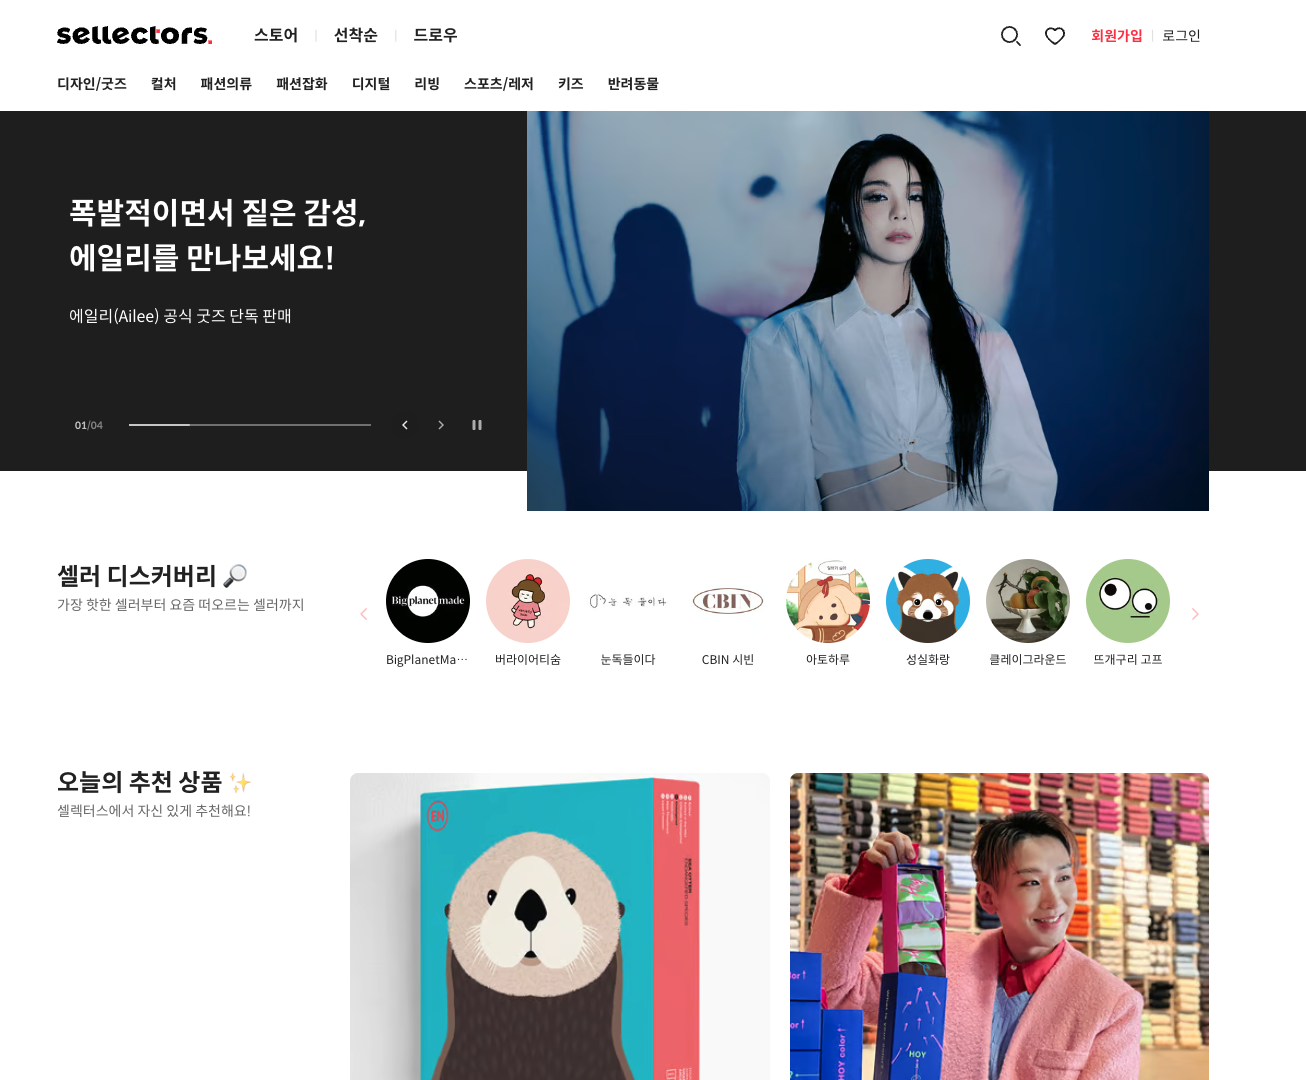
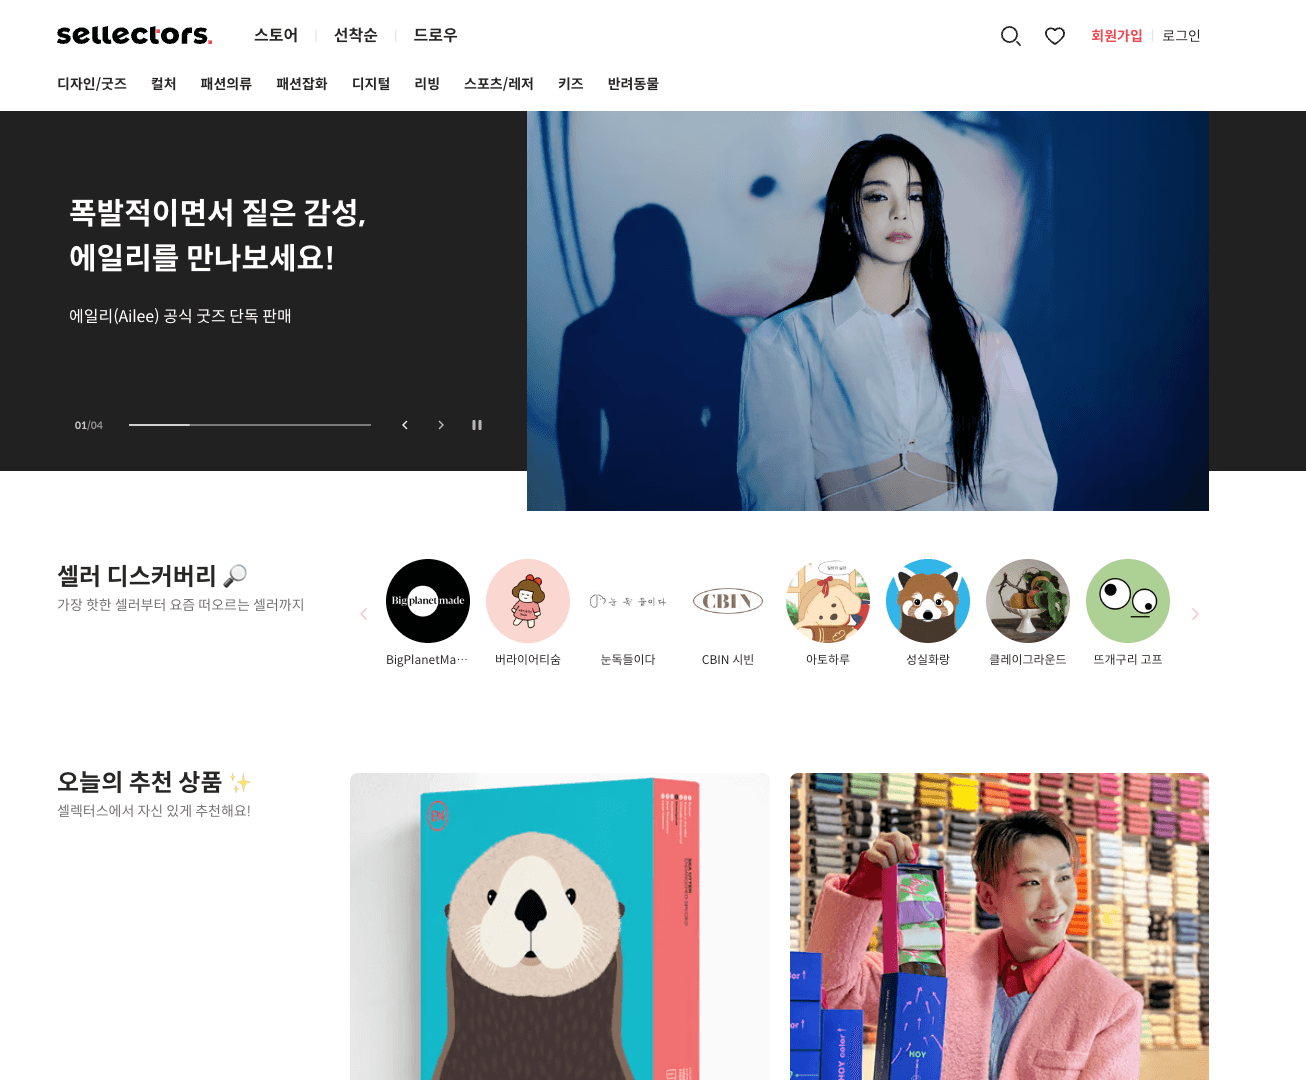
fix(web):모던 웹 가이던스로 명암비·보안 헤더·이미지 개선
modern-web-guidance(js, security, color, optimize-image-priority) 기준을 적용했다.
- 정렬용 배열 복사 4곳을 toSorted()로 전환(legacy-scan 0건).
- CSP frame-ancestors·object-src·base-uri와 X-Frame-Options, nosniff, Referrer-Policy,
  Permissions-Policy를 추가했다.
- 어두운 화면 문구 명암비를 WCAG AA로 맞췄다(axe 위반 162건 → 0건). 회색 토큰 2단계 조정,
  어두운 화면의 gray-500 글자 교체, 탭·버튼·강조 색 보정, 밝은 패널용 툴바 tone 추가.
- 경력기술서 비교 PNG를 같은 파일명으로 825KB → 200KB 무손실 압축했다.
바뀐 시각 회귀 기준선 2장을 갱신했다.

diff --git a/apps/web/src/features/resume-rag/components/resume-question-chat.tsx b/apps/web/src/features/resume-rag/components/resume-question-chat.tsx
@@ -221,7 +221,7 @@ const PendingAnswer = () => {
 
   return (
     <div className="mr-auto w-full max-w-3xl overflow-hidden border border-gray-700 bg-gray-950/80 text-gray-100">
-      <div className="border-b border-gray-800 bg-gray-900 px-3 py-2 text-xs text-gray-500">
+      <div className="border-b border-gray-800 bg-gray-900 px-3 py-2 text-xs text-gray-400">
         codex.response
       </div>
       <div className="p-3">
@@ -229,7 +229,7 @@ const PendingAnswer = () => {
           <Loader2 className="mt-0.5 size-4 animate-spin text-blue-300" />
           <div>
             <div className="font-medium">{t("pending.title")}</div>
-            <div className="mt-1 text-gray-500">{t("pending.description")}</div>
+            <div className="mt-1 text-gray-400">{t("pending.description")}</div>
           </div>
         </div>
         <div className="mt-4 space-y-2">
@@ -301,10 +301,10 @@ const SourceList = ({
                 ) : (
                   <span className="text-gray-300">{label}</span>
                 )}
-                <span className="text-gray-500">{t("similarity", { score })}</span>
+                <span className="text-gray-400">{t("similarity", { score })}</span>
               </div>
               {source.caveats?.length ? (
-                <div className="mt-1 text-gray-500">{source.caveats.join(", ")}</div>
+                <div className="mt-1 text-gray-400">{source.caveats.join(", ")}</div>
               ) : null}
             </div>
           );
@@ -355,7 +355,7 @@ const EmptyChatState = ({
 
   return (
     <div className="min-h-72 overflow-hidden border border-gray-800 bg-gray-950/70 text-gray-100">
-      <div className="flex items-center gap-2 border-b border-gray-800 bg-gray-900 px-3 py-2 text-xs text-gray-500">
+      <div className="flex items-center gap-2 border-b border-gray-800 bg-gray-900 px-3 py-2 text-xs text-gray-400">
         <span className="size-2 rounded-full bg-blue-300" />
         <span>resume-rag.question</span>
       </div>
@@ -366,7 +366,7 @@ const EmptyChatState = ({
         </div>
 
         <div className="mt-5">
-          <div className="mb-2 text-xs font-medium uppercase text-gray-500">{t("topicsLabel")}</div>
+          <div className="mb-2 text-xs font-medium uppercase text-gray-400">{t("topicsLabel")}</div>
           <div className="grid gap-2 md:grid-cols-2">
             {questionTopics.map((topic, index) => (
               <Button
@@ -616,7 +616,7 @@ export const ResumeQuestionChat = ({ initialChatId, resumeKey }: ResumeQuestionC
                 </div>
               ) : (
                 <div className="w-full max-w-3xl overflow-hidden border border-gray-700 bg-gray-950/80 text-gray-100">
-                  <div className="flex flex-wrap items-center justify-between gap-2 border-b border-gray-800 bg-gray-900 px-3 py-2 text-xs text-gray-500">
+                  <div className="flex flex-wrap items-center justify-between gap-2 border-b border-gray-800 bg-gray-900 px-3 py-2 text-xs text-gray-400">
                     <span>codex.response</span>
                     <span
                       className={
@@ -664,7 +664,7 @@ export const ResumeQuestionChat = ({ initialChatId, resumeKey }: ResumeQuestionC
             placeholder={t("placeholder")}
             aria-label={t("composerLabel")}
             rows={1}
-            className="max-h-36 min-h-11 flex-1 resize-none border-0 bg-transparent px-2 py-2 text-sm text-gray-100 shadow-none placeholder:text-gray-500 focus-visible:border-transparent focus-visible:ring-0 md:min-h-11"
+            className="max-h-36 min-h-11 flex-1 resize-none border-0 bg-transparent px-2 py-2 text-sm text-gray-100 shadow-none placeholder:text-gray-400 focus-visible:border-transparent focus-visible:ring-0 md:min-h-11"
             disabled={isSubmitting || conversation.isRestoring}
           />
           <Button
@@ -672,14 +672,14 @@ export const ResumeQuestionChat = ({ initialChatId, resumeKey }: ResumeQuestionC
             size="icon"
             disabled={!canSubmit}
             aria-label={isSubmitting ? t("submitting") : t("submit")}
-            className="size-10 shrink-0 rounded-md bg-blue-300 text-gray-950 hover:bg-blue-200"
+            className="size-10 shrink-0 rounded-md bg-blue-300 text-white hover:bg-blue-200"
           >
             {isSubmitting ? <Loader2 className="animate-spin" /> : <Send />}
           </Button>
         </div>
         <ResumeRagRateLimitStatus
           rateLimit={rateLimit}
-          className="px-1 pt-2 text-xs text-gray-500"
+          className="px-1 pt-2 text-xs text-gray-400"
         />
       </form>
     </section>

diff --git a/apps/web/src/features/main-chat/components/main-chat.tsx b/apps/web/src/features/main-chat/components/main-chat.tsx
@@ -178,7 +178,7 @@ export const MainChat = () => {
             <p className="text-xs font-semibold tracking-[0.24em] text-blue-200">VSCOKE</p>
             <h1 className="mt-1 text-lg font-semibold text-gray-100">{t("workspaceTitle")}</h1>
           </div>
-          <span className="flex items-center gap-1.5 text-xs text-gray-500">
+          <span className="flex items-center gap-1.5 text-xs text-gray-400">
             <span className="size-1.5 rounded-full bg-blue-300" />
             {t("publicAccess")}
           </span>
@@ -244,7 +244,7 @@ export const MainChat = () => {
               {state.messages.map(message =>
                 message.role === "user" ? (
                   <div key={message.id} className="ml-auto max-w-[85%] text-right md:max-w-[70%]">
-                    <p className="mb-2 text-xs font-medium text-gray-500">{t("you")}</p>
+                    <p className="mb-2 text-xs font-medium text-gray-400">{t("you")}</p>
                     <p className="inline-block rounded-2xl rounded-tr-sm bg-blue-300 px-4 py-3 text-left text-sm font-medium text-gray-950">
                       {message.content}
                     </p>
@@ -293,7 +293,7 @@ export const MainChat = () => {
 
         <div className="border-t border-gray-800 pt-4">
           {state.rateLimit ? (
-            <p className="mb-2 flex items-center gap-1.5 text-xs text-gray-500" aria-live="polite">
+            <p className="mb-2 flex items-center gap-1.5 text-xs text-gray-400" aria-live="polite">
               <Clock className="size-3.5" />
               {t("rateLimit", { count: state.rateLimit.remaining, time: resetAt ?? "-" })}
             </p>
@@ -305,7 +305,7 @@ export const MainChat = () => {
               disabled={isRateLimited || conversation.isRestoring}
               placeholder={t("placeholder")}
               aria-label={t("placeholder")}
-              className="min-h-12 resize-none border-gray-700 bg-gray-900 px-4 py-3 text-sm text-gray-100 placeholder:text-gray-500 focus-visible:border-blue-300 focus-visible:ring-blue-300/20"
+              className="min-h-12 resize-none border-gray-700 bg-gray-900 px-4 py-3 text-sm text-gray-100 placeholder:text-gray-400 focus-visible:border-blue-300 focus-visible:ring-blue-300/20"
               onChange={event => setQuestion(event.target.value)}
               onKeyDown={event => {
                 if (
@@ -326,7 +326,7 @@ export const MainChat = () => {
               type="submit"
               size="icon"
               disabled={!canSubmit}
-              className="size-12 shrink-0 bg-blue-300 text-gray-950 hover:bg-blue-200 disabled:bg-gray-800 disabled:text-gray-500"
+              className="size-12 shrink-0 bg-blue-300 text-white hover:bg-blue-200 disabled:bg-gray-800 disabled:text-gray-400"
               aria-label={t("send")}
             >
               <Send className="size-4" />

diff --git a/apps/web/src/features/hobby/components/espresso-bean-list.tsx b/apps/web/src/features/hobby/components/espresso-bean-list.tsx
@@ -90,7 +90,7 @@ export const EspressoBeanList = ({ beans }: EspressoBeanListProps) => {
                   className="group flex min-h-52 flex-col justify-between rounded-lg border border-gray-700 bg-gray-900 p-5 text-left transition-colors hover:border-blue-300/70 hover:bg-gray-850 focus-visible:border-blue-300 focus-visible:ring-2 focus-visible:ring-blue-300/30 focus-visible:outline-none"
                 >
                   <div>
-                    <div className="flex items-center gap-2 text-xs font-semibold tracking-[0.16em] text-gray-500 uppercase">
+                    <div className="flex items-center gap-2 text-xs font-semibold tracking-[0.16em] text-gray-400 uppercase">
                       <Coffee className="size-4" />
                       {bean.roaster ?? t("roasterFallback")}
                     </div>
@@ -104,18 +104,18 @@ export const EspressoBeanList = ({ beans }: EspressoBeanListProps) => {
 
                   <div className="mt-5 grid gap-3 text-sm sm:grid-cols-3">
                     <div className="rounded-md border border-gray-800 bg-gray-950 p-3">
-                      <div className="text-xs text-gray-500">{t("round")}</div>
+                      <div className="text-xs text-gray-400">{t("round")}</div>
                       <div className="mt-1 text-lg font-bold text-gray-100">{rounds.length}</div>
                     </div>
                     <div className="rounded-md border border-gray-800 bg-gray-950 p-3">
-                      <div className="flex items-center gap-1 text-xs text-gray-500">
+                      <div className="flex items-center gap-1 text-xs text-gray-400">
                         <Gauge className="size-3" />
                         {t("recentExtraction")}
                       </div>
                       <div className="mt-1 text-lg font-bold text-gray-100">{latestExtraction}</div>
                     </div>
                     <div className="rounded-md border border-gray-800 bg-gray-950 p-3">
-                      <div className="flex items-center gap-1 text-xs text-gray-500">
+                      <div className="flex items-center gap-1 text-xs text-gray-400">
                         <CalendarDays className="size-3" />
                         {t("recentRecord")}
                       </div>

diff --git a/apps/web/src/features/hobby/components/espresso-log-view.tsx b/apps/web/src/features/hobby/components/espresso-log-view.tsx
@@ -118,7 +118,7 @@ const SpecGrid = ({ pairs }: { pairs: Array<{ label: string; value: string }> })
           key={`${pair.label}-${pair.value}`}
           className="rounded-md border border-gray-800 bg-gray-950 p-3"
         >
-          <dt className="text-xs text-gray-500">{pair.label}</dt>
+          <dt className="text-xs text-gray-400">{pair.label}</dt>
           <dd className="mt-1 text-sm font-semibold text-gray-100">{pair.value}</dd>
         </div>
       ))}
@@ -234,7 +234,7 @@ const RoundCard = ({ round }: { round: EspressoRound }) => {
           <h4 className="text-lg font-semibold text-gray-50">
             {t("roundLabel", { number: round.roundNumber })}
           </h4>
-          {round.date && <p className="mt-1 text-xs text-gray-500">{round.date}</p>}
+          {round.date && <p className="mt-1 text-xs text-gray-400">{round.date}</p>}
         </div>
         {round.recipe.grind && <Chip>{t("grind", { value: round.recipe.grind })}</Chip>}
       </div>
@@ -348,7 +348,7 @@ const HistoryDetail = ({ log }: { log: EspressoLog }) => {
               <h4 className="text-lg font-semibold text-gray-50">
                 {t("roundLabel", { number: round.roundNumber })}
               </h4>
-              {round.date && <p className="mt-1 text-xs text-gray-500">{round.date}</p>}
+              {round.date && <p className="mt-1 text-xs text-gray-400">{round.date}</p>}
             </div>
             {round.recipe.grind && <Chip>{t("grind", { value: round.recipe.grind })}</Chip>}
           </div>
@@ -386,7 +386,7 @@ const DetailPanel = ({
     <section className="min-w-0 rounded-lg border border-gray-700 bg-gray-900 p-4 md:p-5">
       <div className="mb-5 flex flex-col gap-3 border-b border-gray-800 pb-4 md:flex-row md:items-start md:justify-between">
         <div>
-          <p className="text-xs font-semibold tracking-[0.16em] text-gray-500 uppercase">
+          <p className="text-xs font-semibold tracking-[0.16em] text-gray-400 uppercase">
             {context.bean.roaster ?? t("roasterFallback")}
           </p>
           <h2 className="mt-1 text-2xl font-bold text-gray-50">{titleMap[selection.type]}</h2>

diff --git a/apps/web/next.config.ts b/apps/web/next.config.ts
@@ -60,7 +60,27 @@ export const createProductionDomainRedirects = () => [
 
 const connectSources = createConnectSources(process.env.NEXT_PUBLIC_API_URL);
 
-const contentSecurityPolicy = `connect-src ${connectSources.join(" ")};`;
+// 스크립트 nonce CSP는 GA·GTM 연동 확인이 필요해 아직 적용하지 않는다. 지금은 연결 대상 제한과
+// 클릭재킹·플러그인·<base> 주입을 막는 지시어만 둔다. 이 사이트는 다른 사이트의 iframe에 넣지 않는다.
+export const createContentSecurityPolicy = (sources: readonly string[]): string =>
+  [
+    `connect-src ${sources.join(" ")}`,
+    "frame-ancestors 'none'",
+    "object-src 'none'",
+    "base-uri 'none'",
+  ].join("; ") + ";";
+
+// 사이트가 쓰지 않는 강력한 기능은 막고, 공유·클립보드처럼 쓰는 기능은 브라우저 기본값을 둔다.
+export const securityHeaders = (sources: readonly string[]) => [
+  { key: "Content-Security-Policy", value: createContentSecurityPolicy(sources) },
+  { key: "X-Frame-Options", value: "DENY" },
+  { key: "X-Content-Type-Options", value: "nosniff" },
+  { key: "Referrer-Policy", value: "strict-origin-when-cross-origin" },
+  {
+    key: "Permissions-Policy",
+    value: "camera=(), microphone=(), geolocation=(), payment=(), usb=(), browsing-topics=()",
+  },
+];
 
 const nextConfig: NextConfig = {
   // React Strict Mode (개발 환경에서 잠재적 문제 감지)
@@ -96,12 +116,7 @@ const nextConfig: NextConfig = {
     return [
       {
         source: "/:path*",
-        headers: [
-          {
-            key: "Content-Security-Policy",
-            value: contentSecurityPolicy,
-          },
-        ],
+        headers: securityHeaders(connectSources),
       },
     ];
   },

diff --git a/apps/web/src/features/hobby/components/recipe-browser.tsx b/apps/web/src/features/hobby/components/recipe-browser.tsx
@@ -301,7 +301,7 @@ export const RecipeBrowser = ({ recipes, hasLoadedRecipes }: RecipeBrowserProps)
         <div className="flex flex-col gap-3 rounded-lg border border-gray-800 bg-gray-900/70 p-3 md:flex-row md:items-center">
           <label className="relative block flex-1">
             <span className="sr-only">{t("searchLabel")}</span>
-            <Search className="pointer-events-none absolute top-1/2 left-3 size-4 -translate-y-1/2 text-gray-500" />
+            <Search className="pointer-events-none absolute top-1/2 left-3 size-4 -translate-y-1/2 text-gray-400" />
             <Input
               type="search"
               role="searchbox"
@@ -309,7 +309,7 @@ export const RecipeBrowser = ({ recipes, hasLoadedRecipes }: RecipeBrowserProps)
               value={query}
               onChange={event => handleSearch(event.target.value)}
               placeholder={t("searchPlaceholder")}
-              className="border-gray-700 bg-gray-950 pl-9 text-gray-100 placeholder:text-gray-500"
+              className="border-gray-700 bg-gray-950 pl-9 text-gray-100 placeholder:text-gray-400"
             />
           </label>
           <div className="text-sm text-gray-400">

diff --git a/apps/web/src/components/profile/profile.tsx b/apps/web/src/components/profile/profile.tsx
@@ -40,7 +40,7 @@ const Profile = ({ document }: { document: ResumeDocument }) => {
       <div className="flex flex-wrap justify-end gap-2">
         <Dialog>
           <DialogTrigger asChild>
-            <Button type="button" size="sm" className="bg-blue-300 text-gray-900 hover:bg-blue-200">
+            <Button type="button" size="sm" className="bg-blue-300 text-white hover:bg-blue-200">
               <Icon kind="mail" size={16} />
               {t("proposal")}
             </Button>
@@ -54,7 +54,7 @@ const Profile = ({ document }: { document: ResumeDocument }) => {
               <DialogDescription>{t("proposalDescription")}</DialogDescription>
             </DialogHeader>
             <div className="flex flex-col gap-2">
-              <Button asChild className="bg-blue-300 text-gray-900 hover:bg-blue-200">
+              <Button asChild className="bg-blue-300 text-white hover:bg-blue-200">
                 <a href={`mailto:${contact.email}`}>
                   <Icon kind="mail" size={16} />
                   {t("sendEmail")}

diff --git a/apps/web/src/features/resume-rag/components/resume-conversation-toolbar.tsx b/apps/web/src/features/resume-rag/components/resume-conversation-toolbar.tsx
@@ -10,6 +10,8 @@ type ResumeConversationToolbarProps = {
   memoryOnly: boolean;
   onReset: () => Promise<void>;
   onRestore: () => Promise<void>;
+  // README 패널처럼 밝은 배경에 놓일 때 글자·구분선 명암비를 유지한다.
+  tone?: "dark" | "light";
 };
 
 export const ResumeConversationToolbar = ({
@@ -19,11 +21,16 @@ export const ResumeConversationToolbar = ({
   memoryOnly,
   onReset,
   onRestore,
+  tone = "dark",
 }: ResumeConversationToolbarProps) => {
   const t = useTranslations("resumeRag.conversation");
   return (
     <div
-      className="shrink-0 border-b border-gray-800 py-3 text-xs text-gray-400"
+      className={
+        tone === "light"
+          ? "shrink-0 border-b border-gray-200 py-3 text-xs text-gray-600"
+          : "shrink-0 border-b border-gray-800 py-3 text-xs text-gray-400"
+      }
       data-testid="resume-conversation-toolbar"
     >
       <div className="flex items-center justify-between gap-3">

diff --git a/apps/web/src/features/resume-rag/components/readme-resume-question-composer.tsx b/apps/web/src/features/resume-rag/components/readme-resume-question-composer.tsx
@@ -180,7 +180,7 @@ export const ReadmeResumeQuestionComposer = ({ resumeKey }: { resumeKey: string 
             type="button"
             size="icon"
             onClick={handleMobileChatClick}
-            className="fixed right-20 bottom-4 z-40 size-12 rounded-full bg-blue-300 text-gray-950 shadow-lg hover:bg-blue-200 md:hidden"
+            className="fixed right-20 bottom-4 z-40 size-12 rounded-full bg-blue-300 text-white shadow-lg hover:bg-blue-200 md:hidden"
             data-testid="resume-rag-chat-trigger"
           >
             <MessageCircle className="size-6" />
@@ -209,6 +209,7 @@ export const ReadmeResumeQuestionComposer = ({ resumeKey }: { resumeKey: string 
           </div>
           <div className="px-3">
             <ResumeConversationToolbar
+              tone="light"
               isRestoring={conversation.isRestoring}
               isWorking={conversation.isWorking}
               hasError={Boolean(conversation.restoreError)}

diff --git a/apps/web/src/features/resume-preview/components/resume-preview-actions.tsx b/apps/web/src/features/resume-preview/components/resume-preview-actions.tsx
@@ -45,7 +45,7 @@ export const ResumePreviewActions = ({ resumeKey }: { resumeKey: string }) => {
         <DialogTrigger asChild>
           <Button
             type="button"
-            className="absolute top-0 right-0 bg-blue-300 text-gray-900 hover:bg-blue-200"
+            className="absolute top-0 right-0 bg-blue-300 text-white hover:bg-blue-200"
             data-testid="resume-preview-save-pdf"
           >
             <DownloadIcon className="size-4" aria-hidden="true" />
@@ -77,7 +77,7 @@ export const ResumePreviewActions = ({ resumeKey }: { resumeKey: string }) => {
             </Button>
             <Button
               type="button"
-              className="bg-blue-300 text-gray-900 hover:bg-blue-200"
+              className="bg-blue-300 text-white hover:bg-blue-200"
               data-testid="resume-preview-download-with-career-details"
               onClick={() => handleSavePdf(true)}
             >

diff --git a/apps/web/src/features/hobby/lib/espresso.ts b/apps/web/src/features/hobby/lib/espresso.ts
@@ -61,7 +61,7 @@ export const getRoundRecencyValue = (round: EspressoRound) => {
 };
 
 export const sortEspressoRoundsByRecent = (rounds: EspressoRound[]) => {
-  return [...rounds].sort((a, b) => {
+  return rounds.toSorted((a, b) => {
     const recencyDiff = getRoundRecencyValue(b) - getRoundRecencyValue(a);
 
     if (recencyDiff !== 0) {
@@ -77,7 +77,7 @@ export const getLatestEspressoRound = (bean: EspressoBean) => {
 };
 
 export const sortEspressoBeansByRecent = (beans: EspressoBean[]) => {
-  return [...beans].sort((a, b) => {
+  return beans.toSorted((a, b) => {
     const latestRoundA = getLatestEspressoRound(a);
     const latestRoundB = getLatestEspressoRound(b);
     const recencyA = latestRoundA ? getRoundRecencyValue(latestRoundA) : Number.NEGATIVE_INFINITY;
